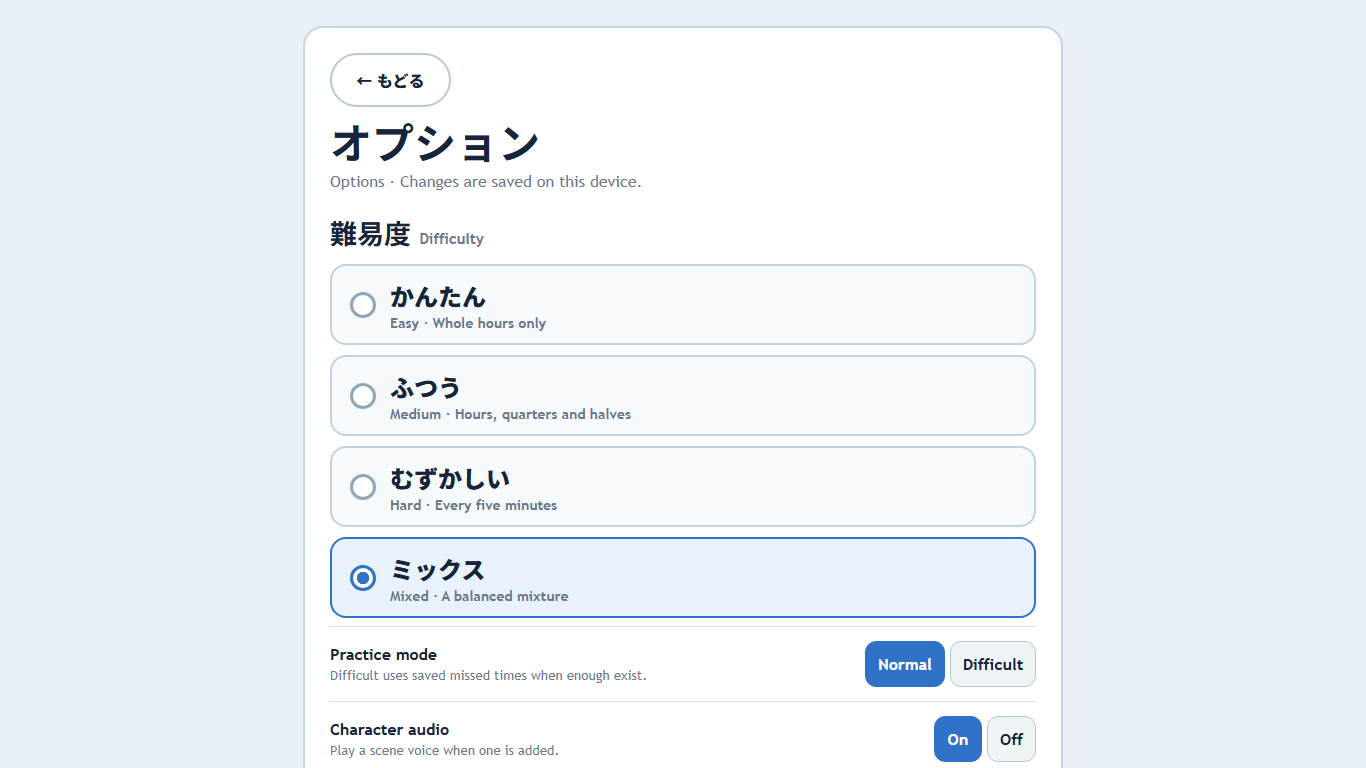
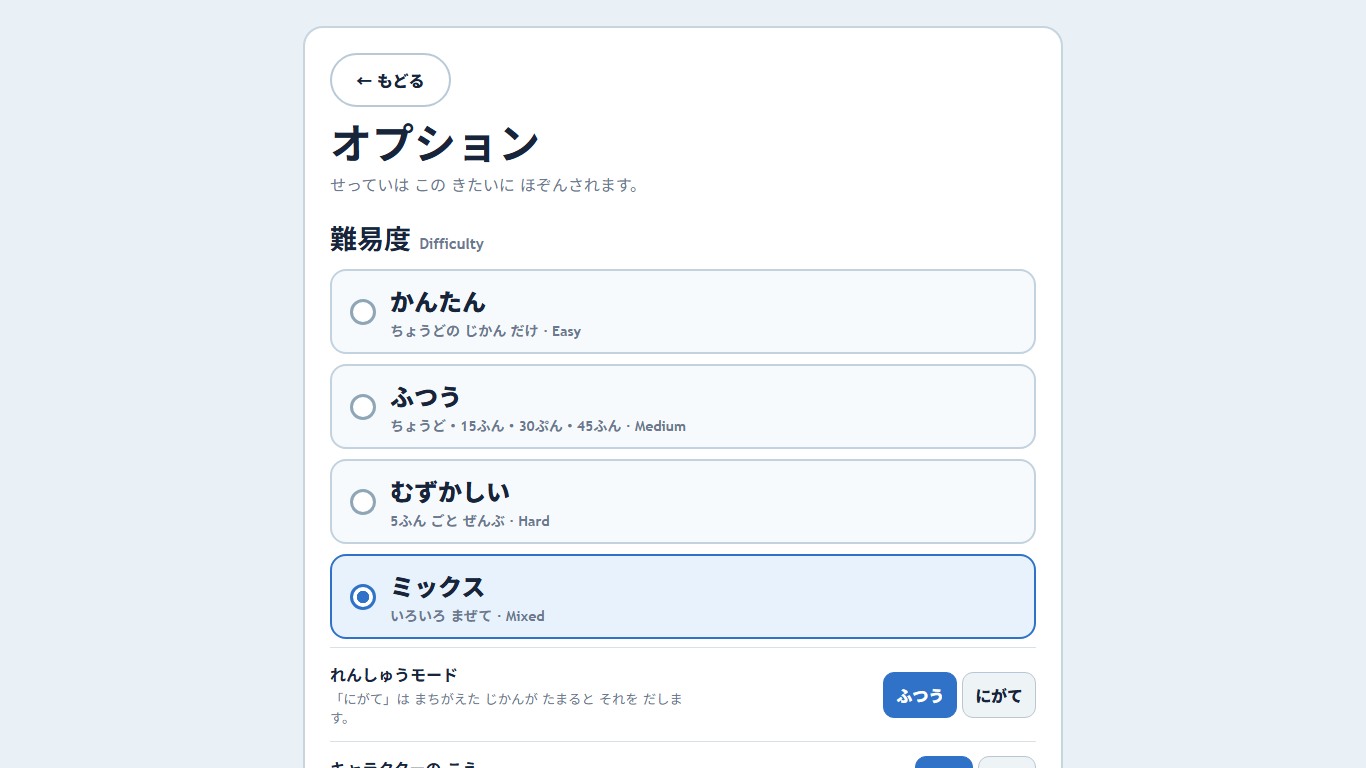
Redesign the title screen and drop its decorative clock
The screen read as a worksheet header: a small analog clock stacked above a
Trebuchet title and a chunky arcade-style button, all evenly spaced down the
middle. It is now a composed splash.

- The decorative clock is gone, with its markup, its mount and its CSS. Nothing
  replaces it. It competed with the real clocks the game is about, and the
  first clock a child sees should be one they have to read.
- Two blocks instead of five stacked items: the title lockup, then the actions,
  with a larger gap between them than inside either, sitting slightly above
  centre.
- Title set in --font-display, a locally-available stack (nothing downloaded),
  at a size that holds one line from 360px up. One word carries a colour
  accent; same weight, same size, so it reads as typographic rather than as
  decoration.
- Background is a light tonal field with three blue radial fields, one
  barely-there warm one, and a 26s drift. Deliberately nothing ring-shaped: a
  ring here would read as another clock.
- Start button loses the thick offset base for a gradient fill with soft
  elevation and a 1px pressed state. Options is now outline-only.
- Entry is a staggered fade-and-rise finishing inside 600ms, with
  animation-fill-mode: backwards so it never leaves a transform asserted over
  the pressed state.

analogRenderer in clock.js is now unused by the app but kept deliberately: it
is the clock registry's only other type and the reference for adding new ones,
[…]

Changed region(s): [[0.246, 0.2812, 0.7687, 1.0], [0.246, 0.2188, 0.4612, 0.25]]

diff --git a/styles/main.css b/styles/main.css
@@ -11,6 +11,9 @@
   --line: #c8d3df;
   --radius: 20px;
   --font: "Trebuchet MS", "Hiragino Maru Gothic ProN", "Noto Sans JP", system-ui, sans-serif;
+  /* Title lockup only. Trebuchet is friendly but soft at display sizes; this
+     is the cleanest face each platform already has, so nothing is downloaded. */
+  --font-display: Inter, system-ui, "Segoe UI", Roboto, "Hiragino Sans", "Noto Sans JP", sans-serif;
 }
 
 * { box-sizing: border-box; }
@@ -42,58 +45,135 @@ button { color: inherit; cursor: pointer; }
 
 /* Title screen: a screen of its own. It deliberately does NOT sit on a scene
    photo — that read as the title being overlaid on a round already in
-   progress. Just a title, one big start button and a quieter options button. */
+   progress. The decorative analog clock that used to sit above the title is
+   gone too: it competed with the real clocks the game is actually about, and
+   made the screen read as a worksheet header. Typography, spacing and one slow
+   tonal drift carry it instead. */
 #screen-title {
   align-items: center;
   justify-content: center;
   padding: 28px;
-  background: radial-gradient(circle at 50% 0%, #ffffff 0, #edf5fa 47%, #dce8f0 100%);
+  background:
+    radial-gradient(72% 54% at 50% -12%, #ffffff 0, rgba(255, 255, 255, 0) 64%),
+    linear-gradient(168deg, #f7fbfe 0%, #e4eef8 44%, #cfe0ef 100%);
 }
 
+/* Two oversized tonal fields drifting slowly against each other. Abstract on
+   purpose: anything ring-shaped here would read as yet another clock. The
+   wrapper clips its own child, so the screen keeps its scroll behaviour. */
+.title-glow { position: absolute; inset: 0; overflow: hidden; pointer-events: none; }
+.title-glow::before {
+  content: "";
+  position: absolute;
+  inset: -20%;
+  background:
+    radial-gradient(40% 42% at 20% 24%, rgba(64, 130, 208, .30) 0, rgba(64, 130, 208, 0) 70%),
+    radial-gradient(44% 46% at 81% 74%, rgba(96, 166, 224, .34) 0, rgba(96, 166, 224, 0) 72%),
+    radial-gradient(32% 36% at 70% 10%, rgba(146, 188, 234, .26) 0, rgba(146, 188, 234, 0) 70%),
+    /* One barely-there warm field: an all-cool screen tips into stock SaaS. */
+    radial-gradient(34% 30% at 12% 88%, rgba(255, 214, 160, .20) 0, rgba(255, 214, 160, 0) 72%);
+  animation: title-drift 26s ease-in-out infinite alternate;
+}
+@keyframes title-drift {
+  from { transform: translate3d(-1.4%, -1.1%, 0) scale(1); }
+  to { transform: translate3d(1.6%, 1.4%, 0) scale(1.06); }
+}
+
+/* Two blocks, not five evenly stacked items: the lockup, then the actions,
+   with a deliberately larger gap between them than inside either. Sitting a
+   little above centre reads as composed; dead centre read as a placeholder. */
 .title-plate {
+  position: relative;
+  z-index: 1;
   display: grid;
   justify-items: center;
-  gap: clamp(14px, 2.4vh, 26px);
-  width: min(640px, 100%);
-  padding: clamp(26px, 4vh, 44px) clamp(24px, 4vw, 48px);
+  gap: clamp(34px, 6.5vh, 74px);
+  width: min(620px, 92vw);
+  margin-bottom: clamp(16px, 5vh, 58px);
   text-align: center;
 }
 
-/* Ties the title to the game's subject without a scene photo behind it, which
-   read as the title being overlaid on a round already in progress. */
-.title-clock { width: clamp(96px, 13vh, 150px); }
-.title-clock .analog-clock { display: block; width: 100%; height: auto; filter: drop-shadow(0 8px 16px rgba(30, 52, 74, .18)); }
+.title-lockup { display: grid; justify-items: center; gap: clamp(8px, 1.4vh, 15px); }
+.title-actions { display: grid; justify-items: center; gap: clamp(14px, 2.4vh, 22px); }
 
 h1, h2 { margin: 0; font-size: clamp(36px, 6vw, 68px); line-height: 1; }
-.title-plate h1 { font-size: clamp(30px, 4.2vw, 50px); }
-.title-jp { margin: 0; color: var(--muted); font-size: clamp(17px, 2.4vw, 24px); font-weight: 800; }
-.jp-copy { margin: 10px 0 0; color: var(--muted); font-size: clamp(15px, 2vw, 20px); font-weight: 700; }
+.title-plate h1 {
+  color: var(--navy);
+  font-family: var(--font-display);
+  font-size: clamp(34px, 5.2vw, 62px);
+  font-weight: 800;
+  line-height: 1.04;
+  text-wrap: balance;
+  letter-spacing: -.025em;
+}
+/* One word carries the accent. Same weight, same size — only the colour
+   changes, so it reads as typographic rather than as decoration. */
+.title-accent { color: #2f72c8; }
 
+.title-jp {
+  margin: 0;
+  color: #7d92aa;
+  font-size: clamp(16px, 2vw, 22px);
+  font-weight: 700;
+  letter-spacing: .06em;
+}
+
+/* Cleaner than the old arcade-style base: a gradient fill with soft elevation
+   and a hairline top highlight, rather than a thick fake button body. */
 .start-button {
   display: grid;
-  gap: 2px;
-  width: min(360px, 100%);
-  min-height: 104px;
+  gap: 3px;
+  width: min(320px, 82vw);
+  min-height: 86px;
   padding: 14px 30px;
   color: white;
   border: none;
-  border-radius: 22px;
-  background: linear-gradient(#3f9bee, #2477cf);
-  box-shadow: 0 10px 0 #1b5da6, 0 18px 28px rgba(20, 60, 100, .34);
+  border-radius: 18px;
+  background: linear-gradient(180deg, #3d8ae4 0, #2569bf 100%);
+  box-shadow: 0 10px 24px rgba(28, 78, 138, .30), inset 0 1px 0 rgba(255, 255, 255, .28);
+  transition: transform .12s ease, box-shadow .12s ease;
 }
-.start-button:active { transform: translateY(4px); box-shadow: 0 6px 0 #1b5da6, 0 12px 18px rgba(20, 60, 100, .3); }
-.start-jp { font-size: clamp(30px, 4.4vw, 42px); font-weight: 900; letter-spacing: .04em; }
-.start-en { font-size: clamp(13px, 1.5vw, 16px); font-weight: 800; opacity: .84; }
-
-.options-button {
-  min-height: 54px;
-  padding: 12px 30px;
-  border: 2px solid #b8c9d8;
-  border-radius: 999px;
-  background: white;
-  font-size: clamp(16px, 1.9vw, 19px);
+.start-button:active {
+  transform: translateY(1px) scale(.99);
+  box-shadow: 0 5px 13px rgba(28, 78, 138, .28), inset 0 1px 0 rgba(255, 255, 255, .22);
+}
+.start-jp {
+  font-family: var(--font-display);
+  font-size: clamp(26px, 3.6vw, 34px);
   font-weight: 800;
+  letter-spacing: .05em;
 }
+.start-en {
+  font-size: clamp(12px, 1.4vw, 14px);
+  font-weight: 700;
+  letter-spacing: .16em;
+  text-transform: uppercase;
+  opacity: .78;
+}
+
+/* Clearly secondary: no fill, no shadow, quieter colour. */
+.options-button {
+  min-height: 46px;
+  padding: 10px 26px;
+  color: #5d7590;
+  border: 1.5px solid #c3d2e0;
+  border-radius: 999px;
+  background: transparent;
+  font-size: clamp(14px, 1.6vw, 16px);
+  font-weight: 800;
+  letter-spacing: .06em;
+  transition: color .14s ease, border-color .14s ease, background .14s ease;
+}
+.options-button:hover { color: var(--navy); border-color: #a5bbd0; background: rgba(255, 255, 255, .62); }
+
+/* A short staggered settle on entry, finished inside 600ms. `backwards`, not
+   `both`: a forwards fill would keep asserting transform: none afterwards and
+   would silently kill the Start button's pressed state. */
+.title-plate h1 { animation: title-rise .42s cubic-bezier(.22, .7, .3, 1) backwards; }
+.title-jp { animation: title-rise .42s cubic-bezier(.22, .7, .3, 1) .08s backwards; }
+.start-button { animation: title-rise .42s cubic-bezier(.22, .7, .3, 1) .17s backwards; }
+.options-button { animation: title-rise .42s cubic-bezier(.22, .7, .3, 1) .26s backwards; }
+@keyframes title-rise { from { opacity: 0; transform: translateY(11px); } }
 
 .button:focus-visible, .top-button:focus-visible, .start-button:focus-visible,
 .options-button:focus-visible, .difficulty-choice:focus-visible,
@@ -481,9 +561,10 @@ h1, h2 { margin: 0; font-size: clamp(36px, 6vw, 68px); line-height: 1; }
 .settings-actions { margin-top: 20px; }
 
 @media (max-height: 700px) and (orientation: landscape) {
-  #screen-title { padding: 14px 24px; }
-  .title-plate { gap: 12px; padding: 20px 30px; }
-  .start-button { min-height: 84px; }
+  #screen-title { padding: 16px 24px; }
+  .title-plate { gap: clamp(20px, 4.6vh, 40px); margin-bottom: clamp(6px, 3vh, 24px); }
+  .title-plate h1 { font-size: clamp(30px, 4.4vw, 50px); }
+  .start-button { min-height: 72px; }
   .top-button { min-height: 44px; }
   .hold-button { min-height: 96px; padding-block: 8px; }
   .answer-dock { gap: 3px; padding-top: 8px; }

diff --git a/index.html b/index.html
@@ -8,17 +8,21 @@
 </head>
 <body>
   <section id="screen-title" class="screen title-screen is-visible" aria-labelledby="title-heading">
+    <div class="title-glow" aria-hidden="true"></div>
     <div class="title-plate">
-      <div id="title-clock" class="title-clock" aria-hidden="true"></div>
-      <h1 id="title-heading">What Time Is It?</h1>
-      <p class="title-jp">いま なんじ？</p>
-      <button id="start-game" class="start-button" type="button">
-        <span class="start-jp">スタート</span>
-        <span class="start-en">Start</span>
-      </button>
-      <button id="open-options" class="options-button" type="button">
-        <span lang="ja">オプション</span>
-      </button>
+      <div class="title-lockup">
+        <h1 id="title-heading">What <span class="title-accent">Time</span> Is It?</h1>
+        <p class="title-jp" lang="ja">いま なんじ？</p>
+      </div>
+      <div class="title-actions">
+        <button id="start-game" class="start-button" type="button">
+          <span class="start-jp" lang="ja">スタート</span>
+          <span class="start-en">Start</span>
+        </button>
+        <button id="open-options" class="options-button" type="button">
+          <span lang="ja">オプション</span>
+        </button>
+      </div>
     </div>
   </section>
 

diff --git a/src/main.js b/src/main.js
@@ -2,7 +2,6 @@ import { allDifficulties, levelIdForDifficulty } from './data/times.js';
 import { Progress } from './progress.js';
 import { TimeGame, formatRunTime, ENABLE_SCORING } from './game.js';
 import { SpeedRound } from './speed-round.js';
-import { renderClock } from './clock.js';
 
 const progress = new Progress();
 const screens = [...document.querySelectorAll('.screen')];
@@ -226,12 +225,6 @@ document.querySelector('#speed-back').addEventListener('click', () => leaveSpeed
 document.querySelector('#speed-again').addEventListener('click', startSpeedRound);
 document.querySelector('#speed-exit').addEventListener('click', () => leaveSpeedRound('screen-summary'));
 document.querySelector('#change-level').addEventListener('click', () => showScreen('screen-title'));
-
-// The standalone analog renderer, otherwise unused now that every scene paints
-// its own clock. 10:10 is the classic display setting: hands up and symmetric.
-document.querySelector('#title-clock').append(renderClock('analog', { h: 10, m: 10 }, {
-  label: 'Decorative clock',
-}));
 
 // Scoring is off for now, so its HUD is not shown at all.
 document.querySelector('#run-timer-badge').hidden = !ENABLE_SCORING;

diff --git a/DESIGN_DECISIONS.md b/DESIGN_DECISIONS.md
@@ -377,3 +377,46 @@ child who read the clock correctly should not fail on the recogniser's
 transcription. The tolerance is bounded to the existing hour-minute structure —
 it is not a general loosening, and every other rule still applies, including
 the requirement to say "it's".
+
+## 2026-09-05 — The interface speaks Japanese; English is reserved for the lesson
+
+Navigation, results, status and settings are in Japanese. English is kept only
+where it IS the content being taught: the model sentence, the clock times, the
+game's own title, and the Hold to Talk label (which already carries
+「押している間、話そう」 beneath it).
+
+Why: the players are Japanese elementary students. English chrome makes them
+decode the interface before they can practise the thing the interface is for,
+and a word like "First try" is harder than anything the game actually teaches.
+Keeping the lesson in English preserves the point of the exercise; making the
+furniture Japanese removes a tax that taught nothing.
+
+Japanese runs are marked `lang="ja"` against the document's `lang="en"`. The
+feedback line switches to `lang="en"` when it shows the revealed model
+sentence, since that one string is English by design.
+
+## 2026-09-05 — The title screen drops its decorative clock
+
+The analog clock above the title is gone, along with its markup, mount and CSS.
+The screen is now the title lockup, スタート and オプション over a light tonal
+background with one slow abstract drift.
+
+Why: the clock made the screen read as a worksheet header, and it competed with
+the real clocks the game is about — the first clock a child sees should be one
+they have to read. Nothing replaces it: no mascot, no icon, no illustration.
+Typography, spacing and background depth carry the screen instead.
+
+Deliberate constraints that follow: nothing decorative here may be ring-shaped
+(a ring reads as another clock), the background is never a scene photo (that
+read as the title overlaid on a round in progress), and no webfont is
+downloaded — `--font-display` is a locally-available stack.
+
+The Start button lost its thick offset "arcade base" for a gradient fill with
+soft elevation; the toy-like depth was the main thing making the screen read as
+amateur. `animation-fill-mode` on the entry stagger is `backwards`, not `both`:
+a forwards fill keeps asserting `transform: none` after the animation and would
+silently kill the button's pressed state — the same bug the replay button hit.
+
+`analogRenderer` in `clock.js` is now unused by the app but is KEPT: it is the
+clock registry's only other registered type and the reference for adding new
+clock styles, which SPEC documents as the extension point.

diff --git a/SPEC.md b/SPEC.md
@@ -361,10 +361,21 @@ default off) reveals it, and then only after the hold ends.
 
 ## 8. UI
 
-**Title screen.** Only three things: the title, one large `スタート` button and
-a smaller `オプション` button, on the game's own artwork. No difficulty choice,
-no level cards, no instructions, no statistics, no teacher controls. A child
-opens the game, presses `スタート`, and plays at the default difficulty.
+**Title screen.** Only three things: the title lockup (`What Time Is It?` over
+`いま なんじ？`), one large `スタート` button and a smaller `オプション` button.
+No difficulty choice, no level cards, no instructions, no statistics, no
+teacher controls, and no decorative clock. A child opens the game, presses
+`スタート`, and plays at the default difficulty.
+
+It is a screen of its own: NOT a scene photo, which read as the title being
+overlaid on a round already in progress. The background is a light tonal field
+with a slow abstract drift; nothing on it may be ring-shaped, because a ring
+here reads as another clock. Composition is two blocks (lockup, then actions)
+sitting slightly above centre, with a deliberately larger gap between them than
+inside either. The title uses `--font-display`, a locally-available stack — no
+webfont is ever downloaded. Entry is a staggered fade-and-rise finishing inside
+600 ms, using `animation-fill-mode: backwards` so it never leaves a transform
+asserted over a button's pressed state.
 
 `オプション` opens the Options screen (§9), which leads with `難易度` as four
 large choices marked by a filled radio dot, not colour alone. Choosing a

diff --git a/CURRENT_STATE.md b/CURRENT_STATE.md
@@ -8,9 +8,12 @@ frozen matcher.
 ## What Exists
 
 - Four sibling screens: title, game, session summary, and options.
-- Title screen is deliberately bare: title, large `スタート`, smaller
-  `オプション`. Difficulty (かんたん / ふつう / むずかしい / ミックス) lives in
-  Options and defaults to ミックス, so a child can open and play immediately.
+- Title screen is deliberately bare: title lockup, large `スタート`, smaller
+  `オプション`, on a light tonal background with a slow abstract drift. No
+  decorative clock. Difficulty (かんたん / ふつう / むずかしい / ミックス) lives
+  in Options and defaults to ミックス, so a child can open and play immediately.
+- The interface speaks Japanese; English is kept only where it is the lesson
+  (the model sentence, the clock times, the game's title, Hold to Talk).
 - Five data-driven time levels and twelve finished illustrated scenes
   (Classroom, Kitchen, Living Room, Bedroom, Train Station, Park, School
   Library, Gym, Cafeteria, Town Square, Art Room, Grand Library) shipped as
